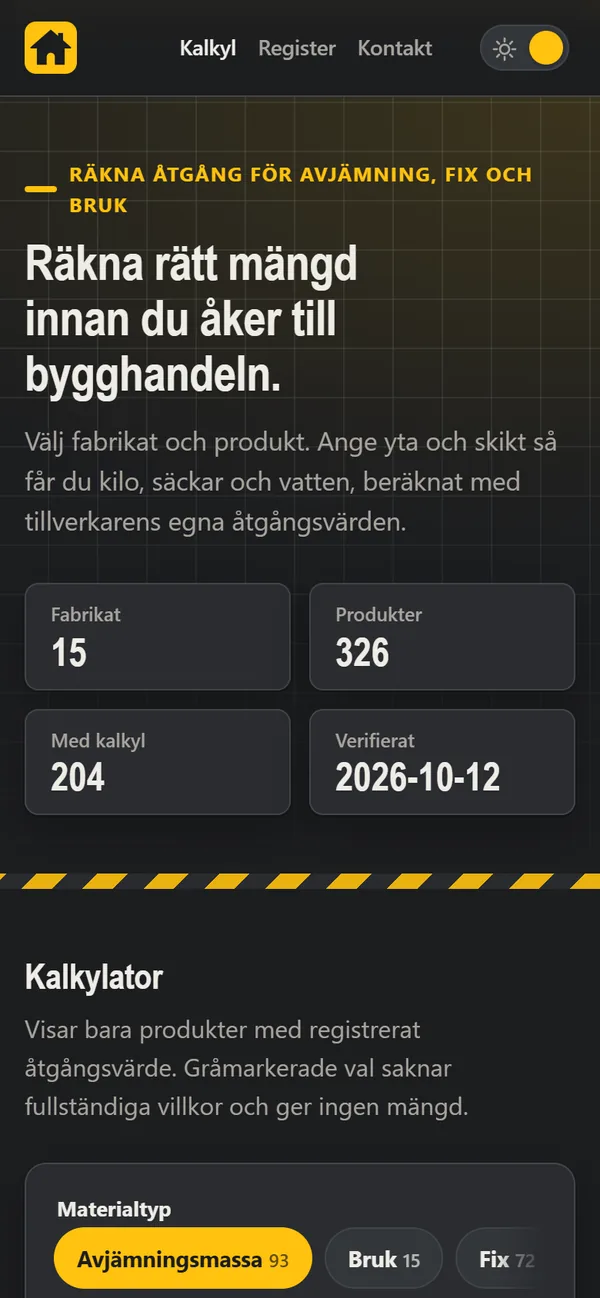
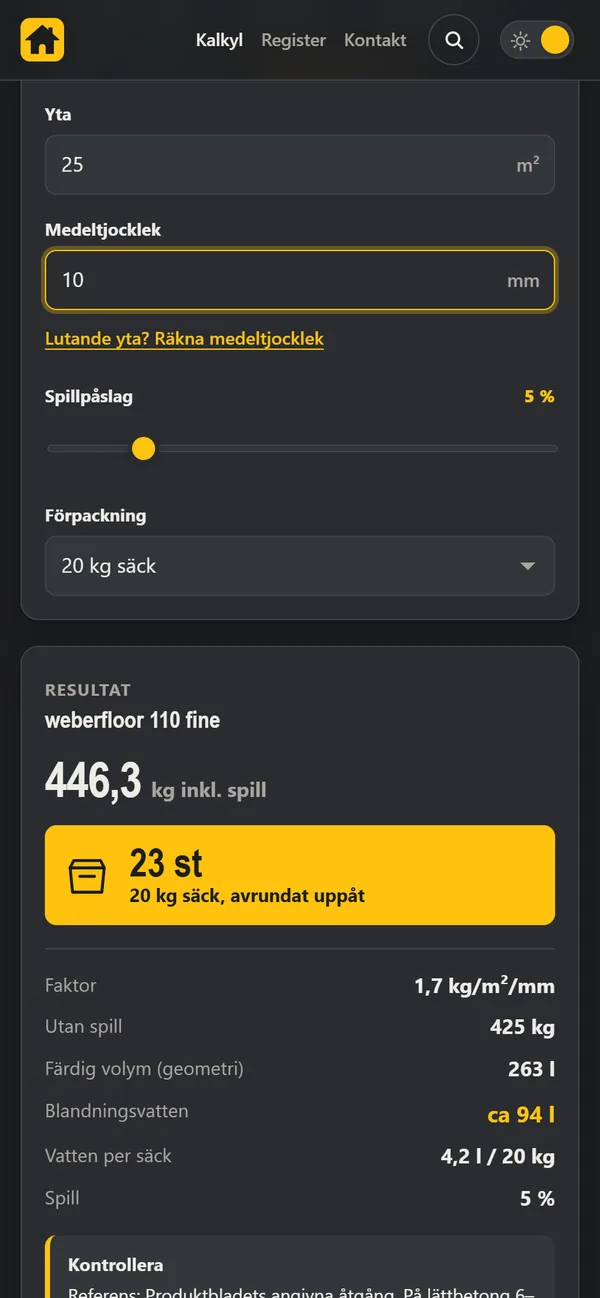
Nya skärmdumpar av EPAkollen och Mängdkollen och ny delningsbild

diff --git a/public/index.html b/public/index.html
@@ -20,7 +20,7 @@
 <meta property="og:url" content="https://junestaden.se/">
 <meta property="og:title" content="Junestaden – webbverktyg för bygg och vardag">
 <meta property="og:description" content="Nordrange, Formelkollen, Mängdkollen och EPAkollen – gratis webbverktyg för elbilsresor, VVS-formler, materialåtgång och EPA-resor. Utan inloggning, i mobilen och på datorn.">
-<meta property="og:image" content="https://junestaden.se/img/og.jpg?v=6">
+<meta property="og:image" content="https://junestaden.se/img/og.jpg?v=7">
 <meta property="og:image:width" content="1200">
 <meta property="og:image:height" content="630">
 <meta name="twitter:card" content="summary_large_image">
@@ -448,7 +448,7 @@ footer .wrap {
 
     <a class="card reveal" data-site="mangd" href="https://bygg.junestaden.se">
       <div class="shot">
-        <div class="phone"><img src="img/mangdkollen.webp" alt="Mängdkollen i mobilen: räkna rätt mängd innan du åker till bygghandeln" width="600" height="1298" decoding="async"></div>
+        <div class="phone"><img src="img/mangdkollen.webp" alt="Mängdkollen i mobilen med ett uträknat resultat: 446 kg avjämningsmassa, 23 säckar" width="600" height="1298" decoding="async"></div>
       </div>
       <div class="meta">
         <div class="meta-top">
@@ -462,7 +462,7 @@ footer .wrap {
 
     <a class="card reveal" data-site="epa" href="https://epa.junestaden.se">
       <div class="shot">
-        <div class="phone"><img src="img/epa.webp" alt="EPAkollen i mobilen med en uträknad rutt: 36 km, 1 h 11 min, 39 kr" width="600" height="1298" decoding="async"></div>
+        <div class="phone"><img src="img/epa.webp" alt="EPAkollen i mobilen med en uträknad rutt längs Vättern: 37 km, 1 h 14 min och 38 kr" width="600" height="1298" decoding="async"></div>
       </div>
       <div class="meta">
         <div class="meta-top">
